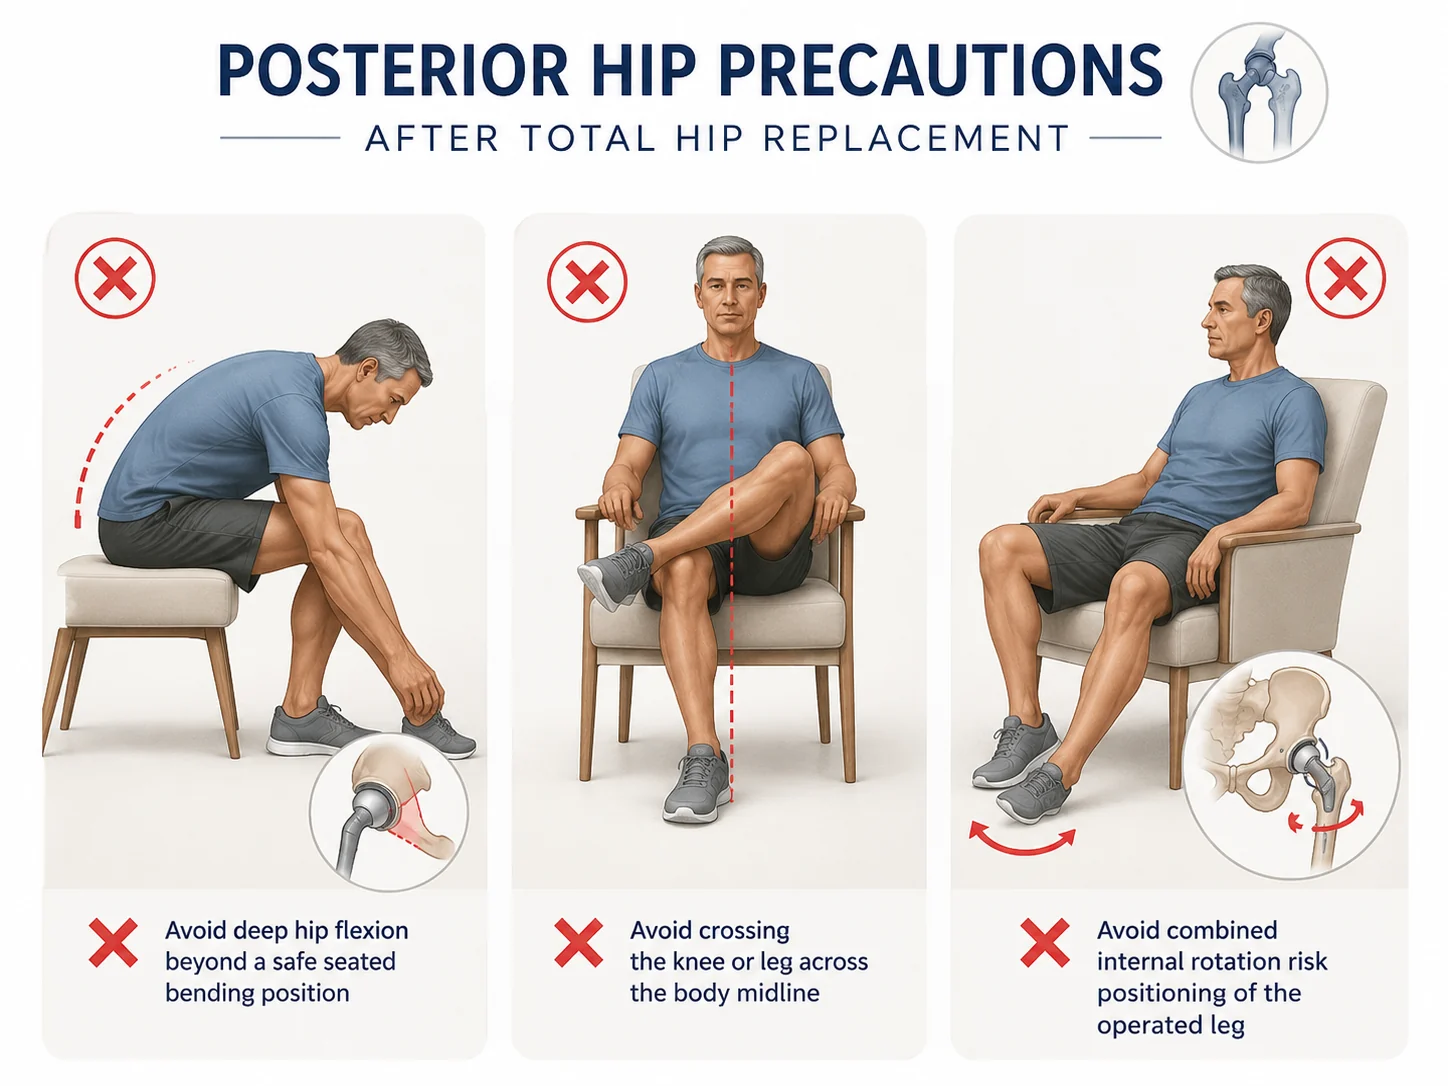
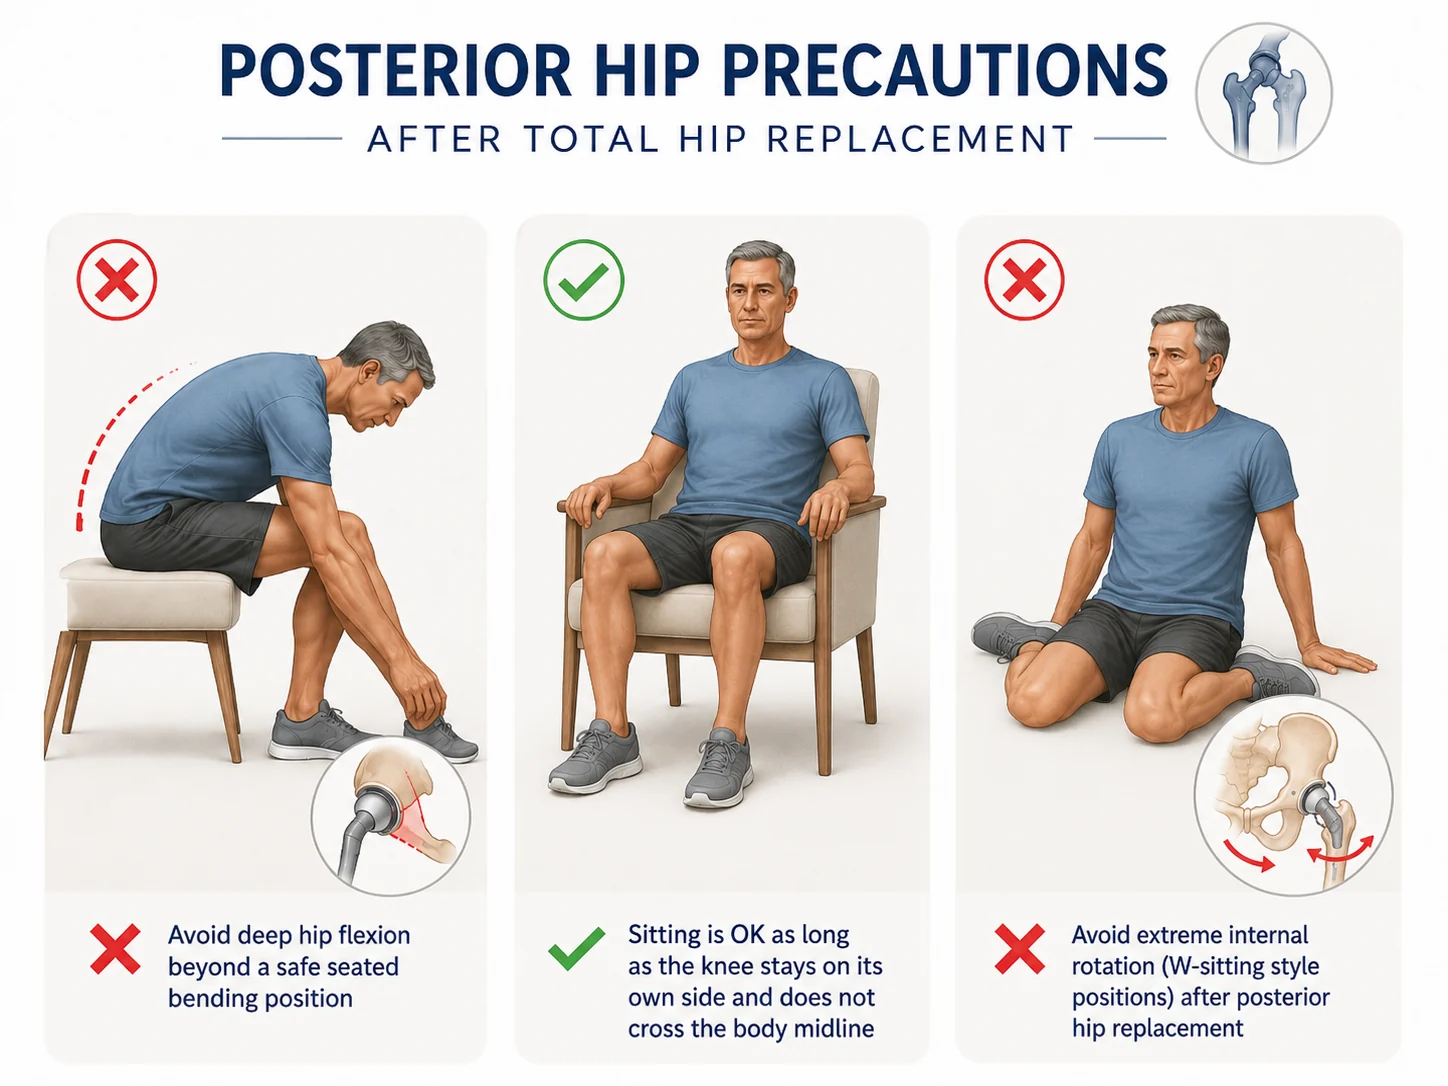
Add files via upload

diff --git a/joint-replacement-lake-havasu.html b/joint-replacement-lake-havasu.html
@@ -37,13 +37,13 @@
         </div>
       </div>
       <div class="jr-media-panel">
-        <div class="jr-slider" data-jr-slider>
-          <div class="slides">
-            <figure class="active"><img class="jr-hero-img" src="assets/photos/joint-replacement/hero-arthroplasty-consult.webp" alt="Dr. Barnes discussing joint replacement options with a patient using a knee replacement model"><figcaption>Shared decision-making about joint replacement options, timing, and recovery.</figcaption></figure>
-            <figure><img src="assets/photos/joint-replacement/mako-hip-planning.webp" alt="Dr. Barnes reviewing hip replacement planning on two monitors"><figcaption>Mako-assisted hip and knee planning may be used for the right patient.</figcaption></figure>
-            <figure><img src="assets/photos/joint-replacement/outpatient-home-recovery.webp" alt="Patient recovering at home after outpatient joint replacement with a walker nearby"><figcaption>Most joint replacements are designed around safe recovery at home.</figcaption></figure>
+        <div class="jr-carousel" data-jr-carousel>
+          <div class="jr-c-slides">
+            <figure class="jr-c-slide is-active"><img class="jr-hero-img" src="assets/photos/joint-replacement/hero-arthroplasty-consult.webp" alt="Dr. Barnes discussing joint replacement options with a patient using a knee replacement model"><figcaption>Shared decision-making about joint replacement options, timing, and recovery.</figcaption></figure>
+            <figure class="jr-c-slide"><img src="assets/photos/joint-replacement/mako-hip-planning.webp" alt="Dr. Barnes reviewing hip replacement planning on two monitors"><figcaption>Mako-assisted hip and knee planning may be used for the right patient.</figcaption></figure>
+            <figure class="jr-c-slide"><img src="assets/photos/joint-replacement/outpatient-home-recovery.webp" alt="Patient recovering at home after outpatient joint replacement with a walker nearby"><figcaption>Most joint replacements are designed around safe recovery at home.</figcaption></figure>
           </div>
-          <button class="slider-prev" type="button" aria-label="Previous image">‹</button><button class="slider-next" type="button" aria-label="Next image">›</button><div class="slider-ui"><div class="slider-dots" aria-label="Image selector"></div></div>
+          <button class="jr-c-prev" type="button" aria-label="Previous image">‹</button><button class="jr-c-next" type="button" aria-label="Next image">›</button><div class="jr-c-ui"><div class="jr-c-dots" aria-label="Image selector"></div></div>
         </div>
       </div>
     </div>
@@ -86,13 +86,13 @@
   <section id="approach">
     <div class="container jr-copy-grid reverse">
       <div class="jr-feature-media">
-        <div class="jr-slider jr-feature-slider" data-jr-slider>
-          <div class="slides">
-            <figure class="active"><img src="assets/photos/joint-replacement/mako-hip-planning.webp" alt="Dr. Barnes reviewing hip replacement planning on two monitors"></figure>
-            <figure><img src="assets/photos/joint-replacement/hero-arthroplasty-consult.webp" alt="Dr. Barnes explaining a knee replacement model during a consultation"></figure>
-            <figure><img src="assets/photos/joint-replacement/posterior-hip-precautions-teaching.webp" alt="Dr. Barnes explaining a hip replacement model to a patient"></figure>
+        <div class="jr-carousel jr-feature-carousel" data-jr-carousel>
+          <div class="jr-c-slides">
+            <figure class="jr-c-slide is-active"><img src="assets/photos/joint-replacement/mako-hip-planning.webp" alt="Dr. Barnes reviewing hip replacement planning on two monitors"></figure>
+            <figure class="jr-c-slide"><img src="assets/photos/joint-replacement/hero-arthroplasty-consult.webp" alt="Dr. Barnes explaining a knee replacement model during a consultation"></figure>
+            <figure class="jr-c-slide"><img src="assets/photos/joint-replacement/posterior-hip-precautions-teaching.webp" alt="Dr. Barnes explaining a hip replacement model to a patient"></figure>
           </div>
-          <button class="slider-prev" type="button" aria-label="Previous image">‹</button><button class="slider-next" type="button" aria-label="Next image">›</button><div class="slider-ui"><div class="slider-dots" aria-label="Image selector"></div></div>
+          <button class="jr-c-prev" type="button" aria-label="Previous image">‹</button><button class="jr-c-next" type="button" aria-label="Next image">›</button><div class="jr-c-ui"><div class="jr-c-dots" aria-label="Image selector"></div></div>
         </div>
       </div>
       <div class="jr-copy">
@@ -163,13 +163,13 @@
   <section id="therapy">
     <div class="container jr-copy-grid reverse">
       <div class="jr-feature-media">
-        <div class="jr-slider jr-feature-slider" data-jr-slider>
-          <div class="slides">
-            <figure class="active"><img src="assets/photos/joint-replacement/knee-replacement-therapy.webp" alt="Postoperative knee replacement patient working on knee range of motion with a therapist"></figure>
-            <figure><img src="assets/photos/joint-replacement/shoulder-replacement-rehab.webp" alt="Patient performing shoulder rehabilitation after shoulder replacement with therapist guidance"></figure>
-            <figure><img class="jr-desert-img" src="assets/photos/joint-replacement/active-recovery-desert.webp" alt="Older active woman walking in desert mountains after joint replacement recovery"></figure>
+        <div class="jr-carousel jr-feature-carousel" data-jr-carousel>
+          <div class="jr-c-slides">
+            <figure class="jr-c-slide is-active"><img src="assets/photos/joint-replacement/knee-replacement-therapy.webp" alt="Postoperative knee replacement patient working on knee range of motion with a therapist"></figure>
+            <figure class="jr-c-slide"><img src="assets/photos/joint-replacement/shoulder-replacement-rehab.webp" alt="Patient performing shoulder rehabilitation after shoulder replacement with therapist guidance"></figure>
+            <figure class="jr-c-slide"><img class="jr-desert-img" src="assets/photos/joint-replacement/active-recovery-desert.webp" alt="Older active woman walking in desert mountains after joint replacement recovery"></figure>
           </div>
-          <button class="slider-prev" type="button" aria-label="Previous image">‹</button><button class="slider-next" type="button" aria-label="Next image">›</button><div class="slider-ui"><div class="slider-dots" aria-label="Image selector"></div></div>
+          <button class="jr-c-prev" type="button" aria-label="Previous image">‹</button><button class="jr-c-next" type="button" aria-label="Next image">›</button><div class="jr-c-ui"><div class="jr-c-dots" aria-label="Image selector"></div></div>
         </div>
       </div>
       <div class="jr-copy">
@@ -253,20 +253,21 @@
   document.querySelectorAll('.dropdown .dropbtn').forEach(btn=>{btn.setAttribute('tabindex','0');btn.setAttribute('role','button');btn.setAttribute('aria-expanded','false');function activate(e){if(window.matchMedia('(max-width:980px)').matches){e.preventDefault();const parent=btn.closest('.dropdown');const willOpen=!parent.classList.contains('open');document.querySelectorAll('.dropdown.open').forEach(d=>{if(d!==parent)d.classList.remove('open');const b=d.querySelector('.dropbtn');if(b)b.setAttribute('aria-expanded','false');});parent.classList.toggle('open',willOpen);btn.setAttribute('aria-expanded',willOpen?'true':'false');}}btn.addEventListener('click',activate);btn.addEventListener('keydown',e=>{if(e.key==='Enter'||e.key===' ')activate(e);});});
 })();
 (function(){
-  function initSlider(slider){
-    const slides=[...slider.querySelectorAll('figure')];
-    const dotsWrap=slider.querySelector('.slider-dots');
-    const prev=slider.querySelector('.slider-prev');
-    const next=slider.querySelector('.slider-next');
+  function initCarousel(carousel){
+    const slides=[...carousel.querySelectorAll('.jr-c-slide')];
+    const dotsWrap=carousel.querySelector('.jr-c-dots');
+    const prev=carousel.querySelector('.jr-c-prev');
+    const next=carousel.querySelector('.jr-c-next');
     let index=0;
     if(!slides.length || !dotsWrap) return;
-    slides.forEach((_,i)=>{const dot=document.createElement('button');dot.type='button';dot.className='slider-dot'+(i===0?' active':'');dot.setAttribute('aria-label','Show image '+(i+1));dot.addEventListener('click',()=>show(i));dotsWrap.appendChild(dot);});
-    const dots=[...dotsWrap.querySelectorAll('.slider-dot')];
-    function show(i){index=(i+slides.length)%slides.length;slides.forEach((s,j)=>s.classList.toggle('active',j===index));dots.forEach((d,j)=>d.classList.toggle('active',j===index));}
+    dotsWrap.innerHTML='';
+    slides.forEach((_,i)=>{const dot=document.createElement('button');dot.type='button';dot.className='jr-c-dot'+(i===0?' is-active':'');dot.setAttribute('aria-label','Show image '+(i+1));dot.addEventListener('click',()=>show(i));dotsWrap.appendChild(dot);});
+    const dots=[...dotsWrap.querySelectorAll('.jr-c-dot')];
+    function show(i){index=(i+slides.length)%slides.length;slides.forEach((s,j)=>s.classList.toggle('is-active',j===index));dots.forEach((d,j)=>d.classList.toggle('is-active',j===index));}
     if(prev) prev.addEventListener('click',()=>show(index-1));
     if(next) next.addEventListener('click',()=>show(index+1));
   }
-  document.querySelectorAll('[data-jr-slider]').forEach(initSlider);
+  document.querySelectorAll('[data-jr-carousel]').forEach(initCarousel);
 })();
 </script>
 </body>

diff --git a/assets/css/styles.css b/assets/css/styles.css
@@ -187,5 +187,6 @@ section{padding:82px 0}.section-head{display:flex;align-items:end;justify-conten
 @media(max-width:980px){.local-directory-grid,.location-site-grid,.seo-card-grid,.facility-grid{grid-template-columns:1fr 1fr}.local-landing-grid{grid-template-columns:1fr}.footer-location-badges{justify-content:flex-start}.map-wrap.locations-map,.map-wrap.locations-map iframe{min-height:320px;height:320px}}
 @media(max-width:640px){.local-directory-grid,.location-site-grid,.seo-card-grid,.facility-grid,.location-seo-list{grid-template-columns:1fr}.locations-hero,.page-hero-simple{padding:48px 0}.logo-panel{align-items:flex-start}.footer-convergence-link{max-width:220px}.location-mini-links a,.internal-link-strip a{width:100%;justify-content:center}.map-wrap.locations-map,.map-wrap.locations-map iframe{min-height:280px;height:280px}}
 
-/* v60 Joint Replacement / Arthroplasty Hub */
-.jr-hero{position:relative;overflow:hidden;background:radial-gradient(circle at 82% 8%,rgba(39,199,255,.28),transparent 34%),linear-gradient(135deg,#06163a 0%,#071D49 56%,#0B4F73 100%);color:#fff;padding:74px 0 54px}.jr-hero:before{content:"";position:absolute;inset:0;background-image:linear-gradient(rgba(255,255,255,.045) 1px,transparent 1px),linear-gradient(90deg,rgba(255,255,255,.045) 1px,transparent 1px);background-size:54px 54px;opacity:.5}.jr-hero-grid{position:relative;display:grid;grid-template-columns:minmax(0,.95fr) minmax(440px,1.05fr);gap:44px;align-items:center}.jr-hero h1{font-size:clamp(3rem,6.4vw,6.45rem);line-height:.92;letter-spacing:-.075em;margin:18px 0 20px}.jr-hero p{font-size:clamp(1.05rem,1.75vw,1.34rem);font-weight:650;color:rgba(255,255,255,.87);max-width:780px}.jr-hero .breadcrumb-simple{color:rgba(255,255,255,.72)}.jr-hero .breadcrumb-simple a{color:#fff}.jr-hero-points{display:grid;grid-template-columns:repeat(2,minmax(0,1fr));gap:12px;margin:28px 0}.jr-hero-points div{display:grid;grid-template-columns:42px 1fr;gap:12px;align-items:center;background:rgba(255,255,255,.10);border:1px solid rgba(255,255,255,.18);border-radius:20px;padding:14px 16px}.jr-hero-points span{width:42px;height:42px;border-radius:15px;background:rgba(39,199,255,.18);display:flex;align-items:center;justify-content:center;font-size:1.22rem}.jr-hero-points strong{display:block;color:#fff;line-height:1.1;font-weight:950}.jr-hero-points em{display:block;color:rgba(255,255,255,.72);font-style:normal;font-size:.84rem;font-weight:750;margin-top:3px}.jr-hero .page-nav{display:flex;gap:12px;flex-wrap:wrap;margin-top:22px}.jr-media-panel{border-radius:34px;border:1px solid rgba(255,255,255,.24);box-shadow:0 28px 80px rgba(0,0,0,.32);overflow:hidden;background:#071D49}.jr-slider{position:relative;overflow:hidden;background:#071D49}.jr-slider .slides{position:relative;min-height:500px;height:500px}.jr-slider figure{position:absolute;inset:0;margin:0;opacity:0;transition:opacity .55s ease}.jr-slider figure.active{opacity:1;z-index:1}.jr-slider img{width:100%;height:100%;object-fit:cover;display:block}.jr-slider figcaption{position:absolute;left:20px;right:20px;bottom:20px;z-index:2;background:rgba(7,29,73,.74);border:1px solid rgba(255,255,255,.22);backdrop-filter:blur(10px);border-radius:18px;padding:14px 16px;color:#fff;font-weight:850;box-shadow:0 14px 35px rgba(0,0,0,.25)}.jr-slider .slider-prev,.jr-slider .slider-next{position:absolute;top:50%;transform:translateY(-50%);width:42px;height:42px;border-radius:999px;border:1px solid rgba(255,255,255,.38);background:rgba(7,29,73,.66);color:#fff;font-size:1.8rem;line-height:1;display:flex;align-items:center;justify-content:center;cursor:pointer;z-index:5;padding:0}.jr-slider .slider-prev{left:14px}.jr-slider .slider-next{right:14px}.jr-slider .slider-prev:hover,.jr-slider .slider-next:hover{background:var(--electric);color:#071D49}.jr-slider .slider-ui{position:absolute;left:50%;bottom:82px;transform:translateX(-50%);display:flex;align-items:center;justify-content:center;z-index:6;background:rgba(7,29,73,.68);border:1px solid rgba(255,255,255,.22);border-radius:999px;padding:8px 12px;box-shadow:0 10px 24px rgba(0,0,0,.20);backdrop-filter:blur(8px)}.jr-slider .slider-dots{display:flex;gap:8px;align-items:center}.jr-slider .slider-dot{width:8px;height:8px;border:0;border-radius:999px;background:rgba(255,255,255,.62);padding:0;cursor:pointer}.jr-slider .slider-dot.active{width:28px;background:var(--electric)}.jr-intro-strip{display:grid;grid-template-columns:repeat(4,minmax(0,1fr));gap:16px;margin-top:-30px;position:relative;z-index:8}.jr-intro-strip div{background:#fff;border:1px solid var(--line);border-radius:24px;padding:22px;box-shadow:0 18px 45px rgba(15,23,42,.12)}.jr-intro-strip span{font-size:1.8rem}.jr-intro-strip strong{display:block;margin:10px 0 6px;color:var(--navy);font-size:1.06rem}.jr-intro-strip em{display:block;font-style:normal;color:var(--muted);font-weight:750;line-height:1.35}.jr-copy-grid{display:grid;grid-template-columns:.9fr 1.1fr;gap:34px;align-items:start}.jr-copy-grid.reverse{direction:rtl}.jr-copy-grid.reverse>*{direction:ltr}.jr-page h2,.jr-copy h2{font-size:clamp(2rem,4vw,3.4rem);line-height:1;letter-spacing:-.045em;color:var(--navy);margin:0 0 18px}.jr-page p,.jr-page li{color:#475569;font-weight:650}.jr-checks{list-style:none;padding:0;margin:18px 0 0;display:grid;gap:10px}.jr-checks li{font-weight:850;color:var(--navy);background:#fff;border:1px solid var(--line);border-radius:16px;padding:12px 14px}.jr-checks li:before{content:'✓';color:#071D49;background:var(--electric);border-radius:999px;width:22px;height:22px;display:inline-flex;align-items:center;justify-content:center;margin-right:9px;font-weight:950}.jr-card-grid{display:grid;grid-template-columns:repeat(3,minmax(0,1fr));gap:18px}.jr-card{background:#fff;border:1px solid var(--line);border-radius:26px;padding:24px;box-shadow:0 12px 30px rgba(15,23,42,.06)}.jr-card h3{margin:0 0 8px;color:var(--navy);font-size:1.25rem;letter-spacing:-.02em}.jr-card p{margin:0 0 14px}.jr-card .inline-link{margin-top:auto}.jr-card-icon{width:54px;height:54px;border-radius:18px;background:#EFF9FF;border:1px solid rgba(39,199,255,.28);display:flex;align-items:center;justify-content:center;font-size:1.65rem;margin-bottom:14px}.jr-feature-media{border-radius:28px;border:1px solid var(--line);box-shadow:0 18px 50px rgba(15,23,42,.12);overflow:hidden;background:#071D49}.jr-feature-media img{width:100%;height:420px;object-fit:cover}.jr-feature-slider .slides{height:420px;min-height:420px}.jr-feature-slider .slider-ui{bottom:14px}.jr-feature-slider figcaption{display:none}.jr-photo-grid{display:grid;grid-template-columns:repeat(2,minmax(0,1fr));gap:18px}.jr-photo-card{background:#fff;border:1px solid var(--line);border-radius:26px;overflow:hidden;box-shadow:0 12px 30px rgba(15,23,42,.06)}.jr-photo-card img{width:100%;height:300px;object-fit:cover}.jr-photo-card img.contain{height:auto;object-fit:contain;background:#fff}.jr-photo-card div{padding:20px}.jr-photo-card h3{margin:0 0 8px;color:var(--navy)}.jr-photo-card p{margin:0;color:var(--muted);font-weight:700}.jr-milestones{display:grid;grid-template-columns:repeat(4,minmax(0,1fr));gap:18px}.jr-milestone{background:#fff;border:1px solid var(--line);border-radius:26px;padding:24px;box-shadow:0 12px 30px rgba(15,23,42,.06);position:relative;overflow:hidden}.jr-milestone:before{content:"";position:absolute;inset:0 0 auto 0;height:5px;background:linear-gradient(90deg,var(--electric),var(--navy))}.jr-milestone span{display:flex;align-items:center;justify-content:center;width:46px;height:46px;border-radius:16px;background:#EFF9FF;border:1px solid rgba(39,199,255,.28);font-size:1.4rem;margin-bottom:14px}.jr-milestone h3{margin:0 0 8px;color:var(--navy)}.jr-callout{background:linear-gradient(135deg,#071D49,#0B4F73);color:#fff;border-radius:30px;padding:34px;box-shadow:0 24px 60px rgba(7,29,73,.18)}.jr-callout h2,.jr-callout h3{color:#fff;margin-top:0}.jr-callout p,.jr-callout li{color:rgba(255,255,255,.84);font-weight:700}.jr-callout .btn-secondary{background:#fff}.jr-faq-grid{display:grid;grid-template-columns:repeat(2,minmax(0,1fr));gap:14px}.jr-faq-grid details{background:#fff;border:1px solid var(--line);border-radius:20px;padding:18px 20px;box-shadow:0 10px 25px rgba(15,23,42,.04)}.jr-faq-grid summary{cursor:pointer;color:var(--navy);font-weight:950}.jr-faq-grid p{color:var(--muted);font-weight:700;line-height:1.55}.jr-cta{display:flex;align-items:center;justify-content:space-between;gap:24px;background:linear-gradient(135deg,#071D49,#0B4F73);border-radius:32px;padding:34px;color:#fff;box-shadow:0 24px 60px rgba(7,29,73,.18)}.jr-cta h2{margin:0 0 8px;color:#fff}.jr-cta p{margin:0;color:rgba(255,255,255,.82);font-weight:700}.jr-cta-actions{display:flex;gap:12px;flex-wrap:wrap}.jr-note{font-size:.88rem;color:var(--muted);font-weight:700;margin-top:10px}.jr-hero-img{object-position:center 38%}.jr-mako-img{object-position:center 50%}.jr-desert-img{object-position:center center}.jr-diagram img{background:#fff;object-fit:contain}.jr-page .bg-ice{background:#f5f9fc}@media(max-width:1100px){.jr-hero-grid,.jr-copy-grid,.jr-copy-grid.reverse{grid-template-columns:1fr;direction:ltr}.jr-intro-strip,.jr-milestones{grid-template-columns:repeat(2,1fr)}.jr-card-grid{grid-template-columns:repeat(2,1fr)}.jr-slider .slides{height:450px;min-height:450px}.jr-feature-slider .slides,.jr-feature-media img{height:380px;min-height:380px}.jr-cta{flex-direction:column;align-items:flex-start}}@media(max-width:720px){.jr-hero{padding:48px 0 44px}.jr-hero h1{font-size:3rem}.jr-hero-points,.jr-intro-strip,.jr-card-grid,.jr-photo-grid,.jr-milestones,.jr-faq-grid{grid-template-columns:1fr}.jr-hero .page-nav,.jr-cta-actions{flex-direction:column;align-items:stretch;width:100%}.jr-hero .btn,.jr-cta .btn{width:100%;justify-content:center}.jr-slider .slides{height:340px;min-height:340px}.jr-slider figcaption{left:12px;right:12px;bottom:14px;font-size:.86rem}.jr-slider .slider-ui{bottom:70px}.jr-feature-slider .slides,.jr-feature-media img{height:300px;min-height:300px}.jr-photo-card img{height:230px}.jr-photo-card img.contain{height:auto}.jr-callout{padding:26px}.jr-intro-strip{margin-top:20px}.jr-hero-points div{padding:12px}.jr-card{padding:22px}}
+
+/* v61 Joint Replacement / Arthroplasty Hub - fixed scoped carousels */
+.jr-hero{position:relative;overflow:hidden;background:radial-gradient(circle at 82% 8%,rgba(39,199,255,.28),transparent 34%),linear-gradient(135deg,#06163a 0%,#071D49 56%,#0B4F73 100%);color:#fff;padding:74px 0 54px}.jr-hero:before{content:"";position:absolute;inset:0;background-image:linear-gradient(rgba(255,255,255,.045) 1px,transparent 1px),linear-gradient(90deg,rgba(255,255,255,.045) 1px,transparent 1px);background-size:54px 54px;opacity:.5}.jr-hero-grid{position:relative;display:grid;grid-template-columns:minmax(0,.95fr) minmax(440px,1.05fr);gap:44px;align-items:center}.jr-hero h1{font-size:clamp(3rem,6.4vw,6.45rem);line-height:.92;letter-spacing:-.075em;margin:18px 0 20px}.jr-hero p{font-size:clamp(1.05rem,1.75vw,1.34rem);font-weight:650;color:rgba(255,255,255,.87);max-width:780px}.jr-hero .breadcrumb-simple{color:rgba(255,255,255,.72)}.jr-hero .breadcrumb-simple a{color:#fff}.jr-hero-points{display:grid;grid-template-columns:repeat(2,minmax(0,1fr));gap:12px;margin:28px 0}.jr-hero-points div{display:grid;grid-template-columns:42px 1fr;gap:12px;align-items:center;background:rgba(255,255,255,.10);border:1px solid rgba(255,255,255,.18);border-radius:20px;padding:14px 16px}.jr-hero-points span{width:42px;height:42px;border-radius:15px;background:rgba(39,199,255,.18);display:flex;align-items:center;justify-content:center;font-size:1.22rem}.jr-hero-points strong{display:block;color:#fff;line-height:1.1;font-weight:950}.jr-hero-points em{display:block;color:rgba(255,255,255,.72);font-style:normal;font-size:.84rem;font-weight:750;margin-top:3px}.jr-hero .page-nav{display:flex;gap:12px;flex-wrap:wrap;margin-top:22px}.jr-media-panel{border-radius:34px;border:1px solid rgba(255,255,255,.24);box-shadow:0 28px 80px rgba(0,0,0,.32);overflow:hidden;background:#071D49}.jr-carousel{position:relative;overflow:hidden;background:#071D49;isolation:isolate}.jr-carousel,.jr-carousel *{box-sizing:border-box}.jr-carousel:before,.jr-carousel:after,.jr-carousel figure:before,.jr-carousel figure:after{content:none!important;display:none!important}.jr-c-slides{position:relative;min-height:500px;height:500px}.jr-c-slide{position:absolute!important;inset:0!important;margin:0!important;opacity:0!important;visibility:hidden!important;transition:opacity .55s ease!important;background:transparent!important;border-radius:0!important;overflow:hidden!important;transform:none!important}.jr-c-slide.is-active{opacity:1!important;visibility:visible!important;z-index:1!important}.jr-carousel img{width:100%!important;height:100%!important;object-fit:cover!important;display:block!important;max-width:none!important;border-radius:0!important}.jr-carousel figcaption{position:absolute;left:20px;right:20px;bottom:20px;z-index:2;background:rgba(7,29,73,.74);border:1px solid rgba(255,255,255,.22);backdrop-filter:blur(10px);border-radius:18px;padding:14px 16px;color:#fff;font-weight:850;box-shadow:0 14px 35px rgba(0,0,0,.25)}.jr-c-prev,.jr-c-next{position:absolute;top:50%;transform:translateY(-50%);width:42px!important;height:42px!important;border-radius:999px!important;border:1px solid rgba(255,255,255,.38)!important;background:rgba(7,29,73,.66)!important;color:#fff!important;font-size:1.8rem!important;line-height:1!important;display:flex!important;align-items:center!important;justify-content:center!important;cursor:pointer!important;z-index:5!important;padding:0!important;box-shadow:0 10px 22px rgba(0,0,0,.20)!important}.jr-c-prev{left:14px}.jr-c-next{right:14px}.jr-c-prev:hover,.jr-c-next:hover{background:var(--electric)!important;color:#071D49!important}.jr-c-ui{position:absolute;left:50%;bottom:82px;transform:translateX(-50%);display:flex;align-items:center;justify-content:center;z-index:6;background:rgba(7,29,73,.68);border:1px solid rgba(255,255,255,.22);border-radius:999px;padding:8px 12px;box-shadow:0 10px 24px rgba(0,0,0,.20);backdrop-filter:blur(8px)}.jr-c-dots{display:flex;gap:8px;align-items:center}.jr-c-dot{width:8px!important;height:8px!important;min-width:8px!important;min-height:8px!important;border:0!important;border-radius:999px!important;background:rgba(255,255,255,.62)!important;padding:0!important;margin:0!important;cursor:pointer!important;display:block!important;box-shadow:none!important}.jr-c-dot.is-active{width:28px!important;min-width:28px!important;background:var(--electric)!important}.jr-intro-strip{display:grid;grid-template-columns:repeat(4,minmax(0,1fr));gap:16px;margin-top:-30px;position:relative;z-index:8}.jr-intro-strip div{background:#fff;border:1px solid var(--line);border-radius:24px;padding:22px;box-shadow:0 18px 45px rgba(15,23,42,.12)}.jr-intro-strip span{font-size:1.8rem}.jr-intro-strip strong{display:block;margin:10px 0 6px;color:var(--navy);font-size:1.06rem}.jr-intro-strip em{display:block;font-style:normal;color:var(--muted);font-weight:750;line-height:1.35}.jr-copy-grid{display:grid;grid-template-columns:.9fr 1.1fr;gap:34px;align-items:start}.jr-copy-grid.reverse{direction:rtl}.jr-copy-grid.reverse>*{direction:ltr}.jr-page h2,.jr-copy h2{font-size:clamp(2rem,4vw,3.4rem);line-height:1;letter-spacing:-.045em;color:var(--navy);margin:0 0 18px}.jr-page p,.jr-page li{color:#475569;font-weight:650}.jr-checks{list-style:none;padding:0;margin:18px 0 0;display:grid;gap:10px}.jr-checks li{font-weight:850;color:var(--navy);background:#fff;border:1px solid var(--line);border-radius:16px;padding:12px 14px}.jr-checks li:before{content:'✓';color:#071D49;background:var(--electric);border-radius:999px;width:22px;height:22px;display:inline-flex;align-items:center;justify-content:center;margin-right:9px;font-weight:950}.jr-card-grid{display:grid;grid-template-columns:repeat(3,minmax(0,1fr));gap:18px}.jr-card{background:#fff;border:1px solid var(--line);border-radius:26px;padding:24px;box-shadow:0 12px 30px rgba(15,23,42,.06);display:flex;flex-direction:column}.jr-card h3{margin:0 0 8px;color:var(--navy);font-size:1.25rem;letter-spacing:-.02em}.jr-card p{margin:0 0 14px}.jr-card .inline-link{margin-top:auto}.jr-card-icon{width:54px;height:54px;border-radius:18px;background:#EFF9FF;border:1px solid rgba(39,199,255,.28);display:flex;align-items:center;justify-content:center;font-size:1.65rem;margin-bottom:14px}.jr-feature-media{border-radius:28px;border:1px solid var(--line);box-shadow:0 18px 50px rgba(15,23,42,.12);overflow:hidden;background:#071D49}.jr-feature-media img{width:100%;height:420px;object-fit:cover}.jr-feature-carousel .jr-c-slides{height:420px;min-height:420px}.jr-feature-carousel .jr-c-ui{bottom:14px}.jr-feature-carousel figcaption{display:none}.jr-photo-grid{display:grid;grid-template-columns:repeat(2,minmax(0,1fr));gap:18px}.jr-photo-card{background:#fff;border:1px solid var(--line);border-radius:26px;overflow:hidden;box-shadow:0 12px 30px rgba(15,23,42,.06)}.jr-photo-card img{width:100%;height:300px;object-fit:cover}.jr-photo-card img.contain{height:auto;object-fit:contain;background:#fff}.jr-photo-card div{padding:20px}.jr-photo-card h3{margin:0 0 8px;color:var(--navy)}.jr-photo-card p{margin:0;color:var(--muted);font-weight:700}.jr-milestones{display:grid;grid-template-columns:repeat(4,minmax(0,1fr));gap:18px}.jr-milestone{background:#fff;border:1px solid var(--line);border-radius:26px;padding:24px;box-shadow:0 12px 30px rgba(15,23,42,.06);position:relative;overflow:hidden}.jr-milestone:before{content:"";position:absolute;inset:0 0 auto 0;height:5px;background:linear-gradient(90deg,var(--electric),var(--navy))}.jr-milestone span{display:flex;align-items:center;justify-content:center;width:46px;height:46px;border-radius:16px;background:#EFF9FF;border:1px solid rgba(39,199,255,.28);font-size:1.4rem;margin-bottom:14px}.jr-milestone h3{margin:0 0 8px;color:var(--navy)}.jr-callout{background:linear-gradient(135deg,#071D49,#0B4F73);color:#fff;border-radius:30px;padding:34px;box-shadow:0 24px 60px rgba(7,29,73,.18)}.jr-callout h2,.jr-callout h3{color:#fff;margin-top:0}.jr-callout p,.jr-callout li{color:rgba(255,255,255,.84);font-weight:700}.jr-callout .btn-secondary{background:#fff}.jr-faq-grid{display:grid;grid-template-columns:repeat(2,minmax(0,1fr));gap:14px}.jr-faq-grid details{background:#fff;border:1px solid var(--line);border-radius:20px;padding:18px 20px;box-shadow:0 10px 25px rgba(15,23,42,.04)}.jr-faq-grid summary{cursor:pointer;color:var(--navy);font-weight:950}.jr-faq-grid p{color:var(--muted);font-weight:700;line-height:1.55}.jr-cta{display:flex;align-items:center;justify-content:space-between;gap:24px;background:linear-gradient(135deg,#071D49,#0B4F73);border-radius:32px;padding:34px;color:#fff;box-shadow:0 24px 60px rgba(7,29,73,.18)}.jr-cta h2{margin:0 0 8px;color:#fff}.jr-cta p{margin:0;color:rgba(255,255,255,.82);font-weight:700}.jr-cta-actions{display:flex;gap:12px;flex-wrap:wrap}.jr-note{font-size:.88rem;color:var(--muted);font-weight:700;margin-top:10px}.jr-hero-img{object-position:center 38%}.jr-mako-img{object-position:center 50%}.jr-desert-img{object-position:center center}.jr-diagram img{background:#fff;object-fit:contain}.jr-page .bg-ice{background:#f5f9fc}@media(max-width:1100px){.jr-hero-grid,.jr-copy-grid,.jr-copy-grid.reverse{grid-template-columns:1fr;direction:ltr}.jr-intro-strip,.jr-milestones{grid-template-columns:repeat(2,1fr)}.jr-card-grid{grid-template-columns:repeat(2,1fr)}.jr-c-slides{height:450px;min-height:450px}.jr-feature-carousel .jr-c-slides,.jr-feature-media img{height:380px;min-height:380px}.jr-cta{flex-direction:column;align-items:flex-start}}@media(max-width:720px){.jr-hero{padding:48px 0 44px}.jr-hero h1{font-size:3rem}.jr-hero-points,.jr-intro-strip,.jr-card-grid,.jr-photo-grid,.jr-milestones,.jr-faq-grid{grid-template-columns:1fr}.jr-hero .page-nav,.jr-cta-actions{flex-direction:column;align-items:stretch;width:100%}.jr-hero .btn,.jr-cta .btn{width:100%;justify-content:center}.jr-c-slides{height:340px;min-height:340px}.jr-carousel figcaption{left:12px;right:12px;bottom:14px;font-size:.86rem}.jr-c-ui{bottom:70px}.jr-feature-carousel .jr-c-slides,.jr-feature-media img{height:300px;min-height:300px}.jr-photo-card img{height:230px}.jr-photo-card img.contain{height:auto}.jr-callout{padding:26px}.jr-intro-strip{margin-top:20px}.jr-hero-points div{padding:12px}.jr-card{padding:22px}}

diff --git a/README_JOINT_REPLACEMENT_UPLOAD.md b/README_JOINT_REPLACEMENT_UPLOAD.md
@@ -1,9 +1,12 @@
-# Joint Replacement Hub Page Upload
+# Joint Replacement Upload Package
 
-Upload these paths to the root of the `jamesbarnesmd-website` GitHub repository:
+Upload these paths to the root of the `jamesbarnesmd-website` GitHub repository.
 
-- `joint-replacement-lake-havasu.html` — replaces the current thin joint replacement page.
-- `assets/css/styles.css` — your existing site CSS with the joint replacement CSS block appended at the bottom. This is not a separate CSS file.
-- `assets/photos/joint-replacement/` — new rendered images for the arthroplasty page.
+Replace/merge:
+- `joint-replacement-lake-havasu.html`
+- `assets/css/styles.css`
+- `assets/photos/joint-replacement/`
 
-Do not create a `/joint-replacement/` folder for this package. This matches your current flat-file site structure and existing navigation link.
+This version uses the existing site CSS file only. The joint replacement carousel CSS is scoped to `jr-` classes and uses unique carousel classes to avoid the large oval overlay from generic slider styles.
+
+The posterior hip precautions graphic has been replaced with the corrected image showing sitting as acceptable when the knee stays on its side and does not cross the midline.